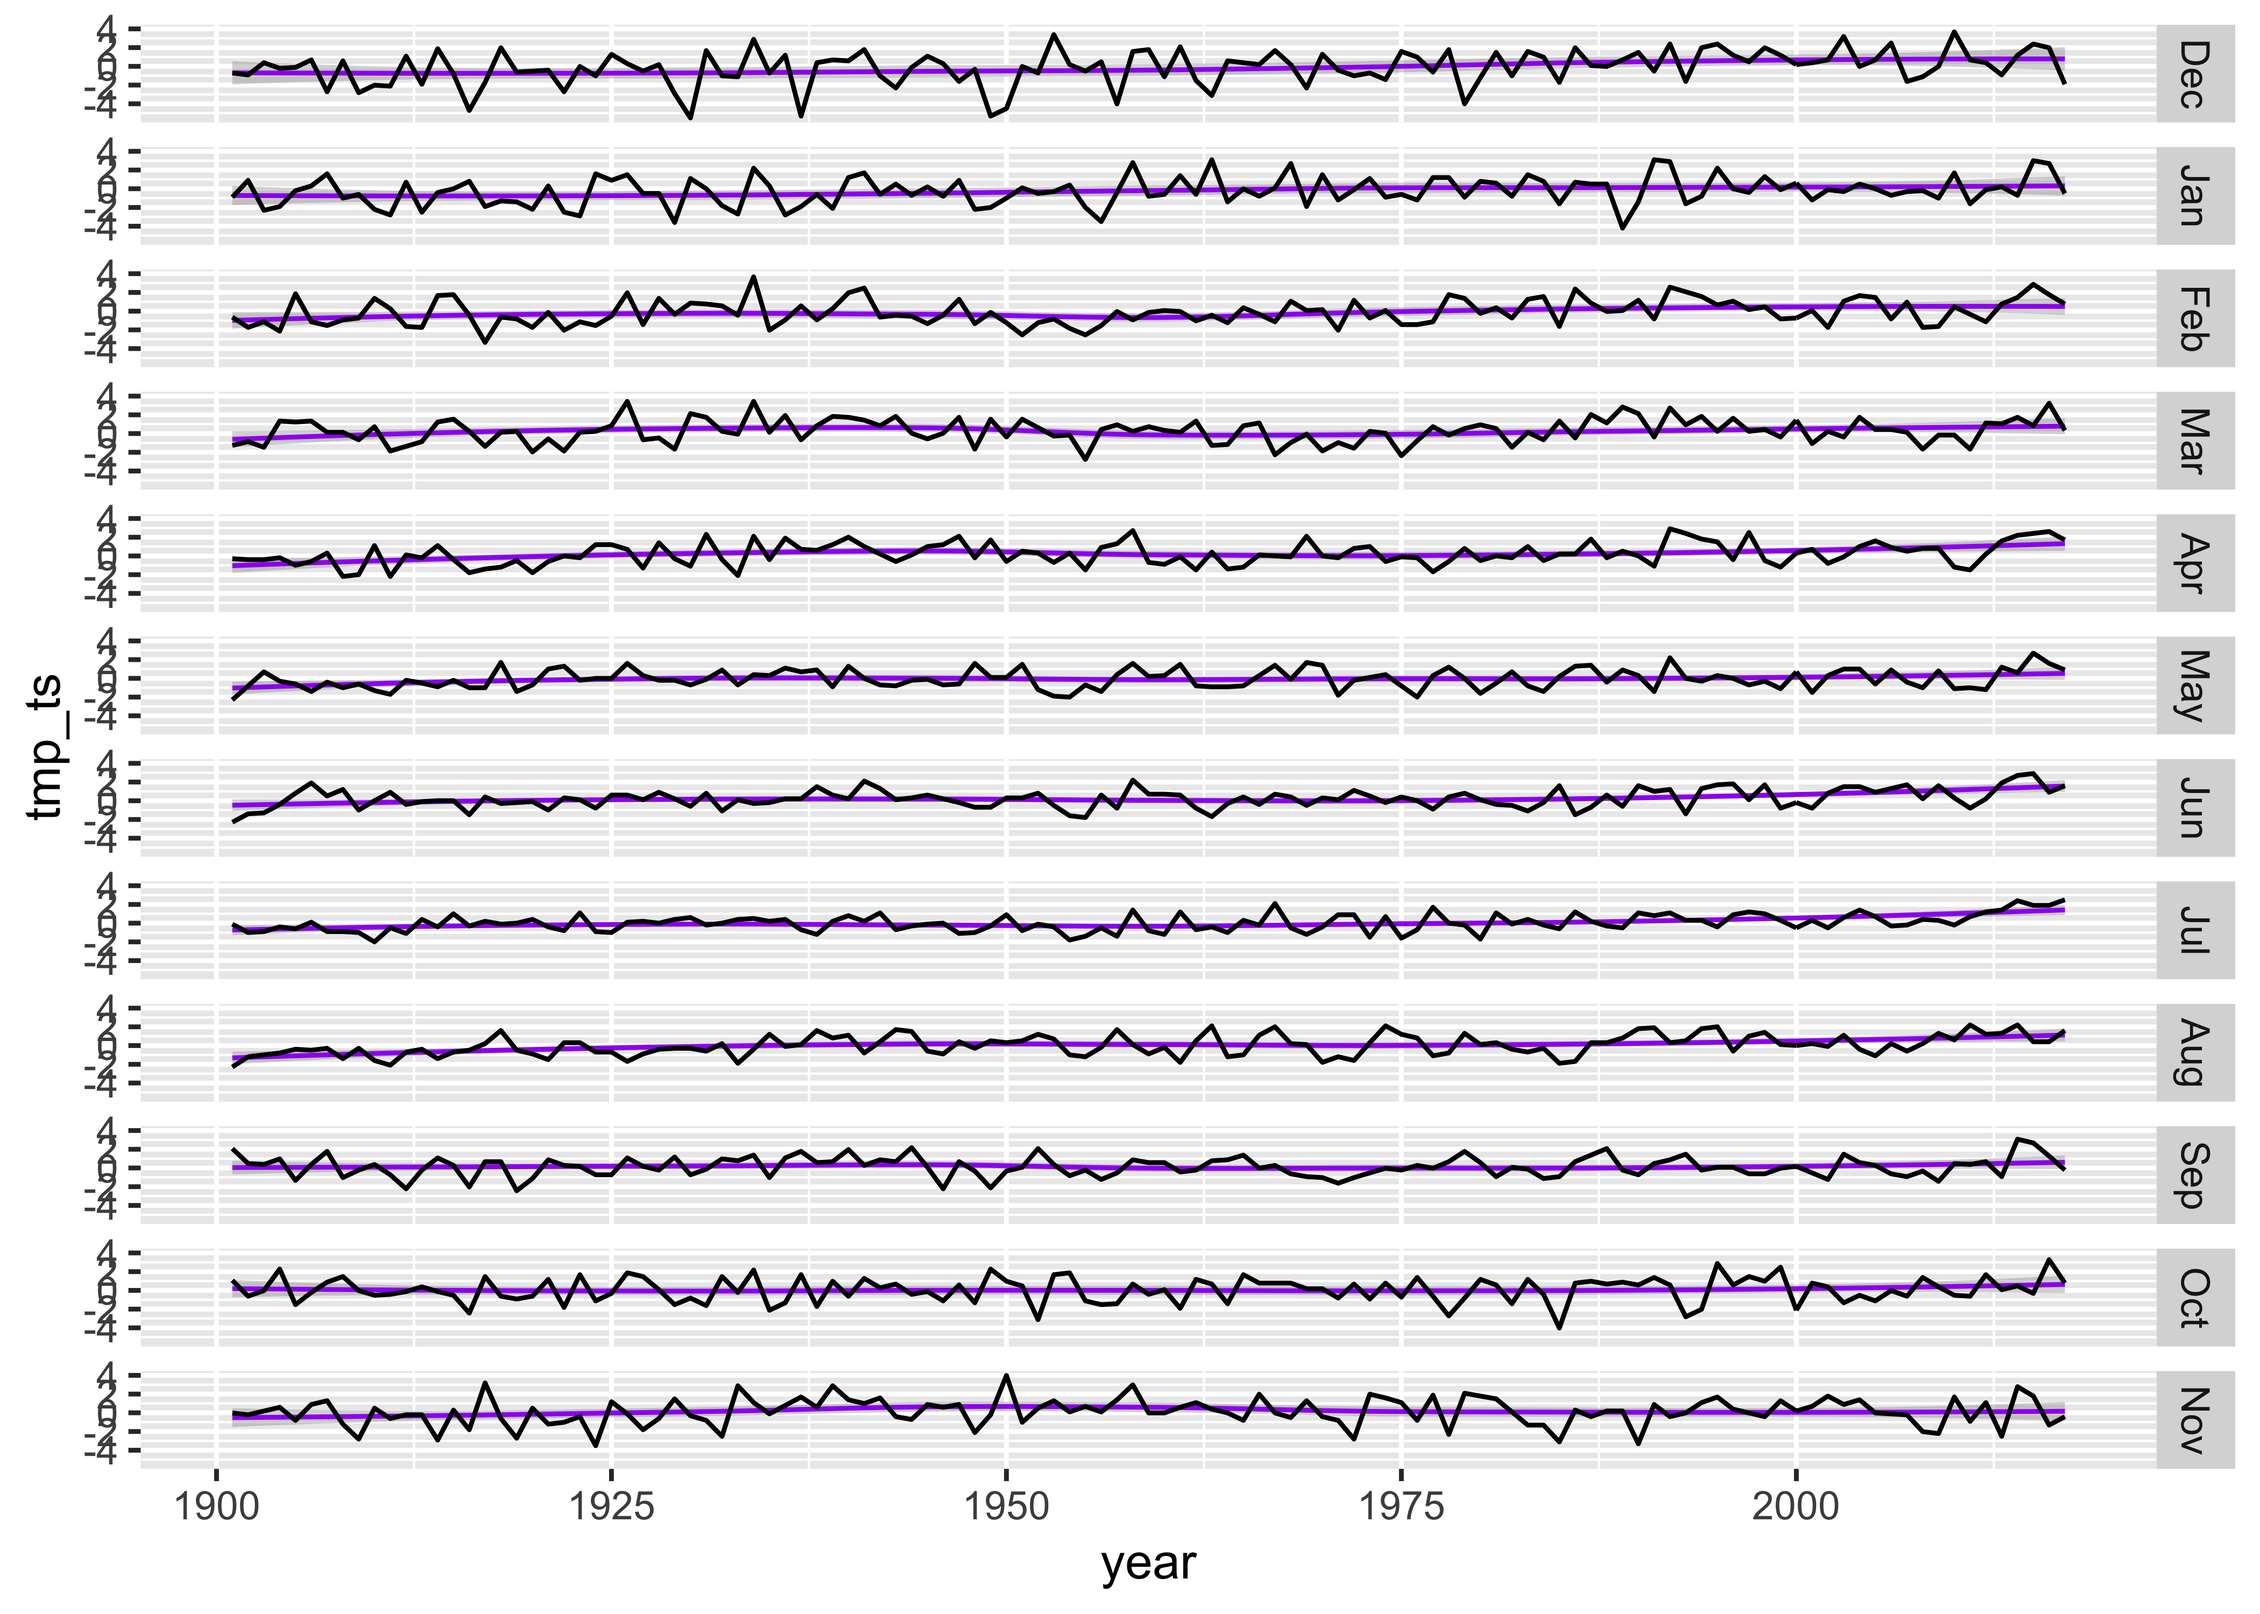
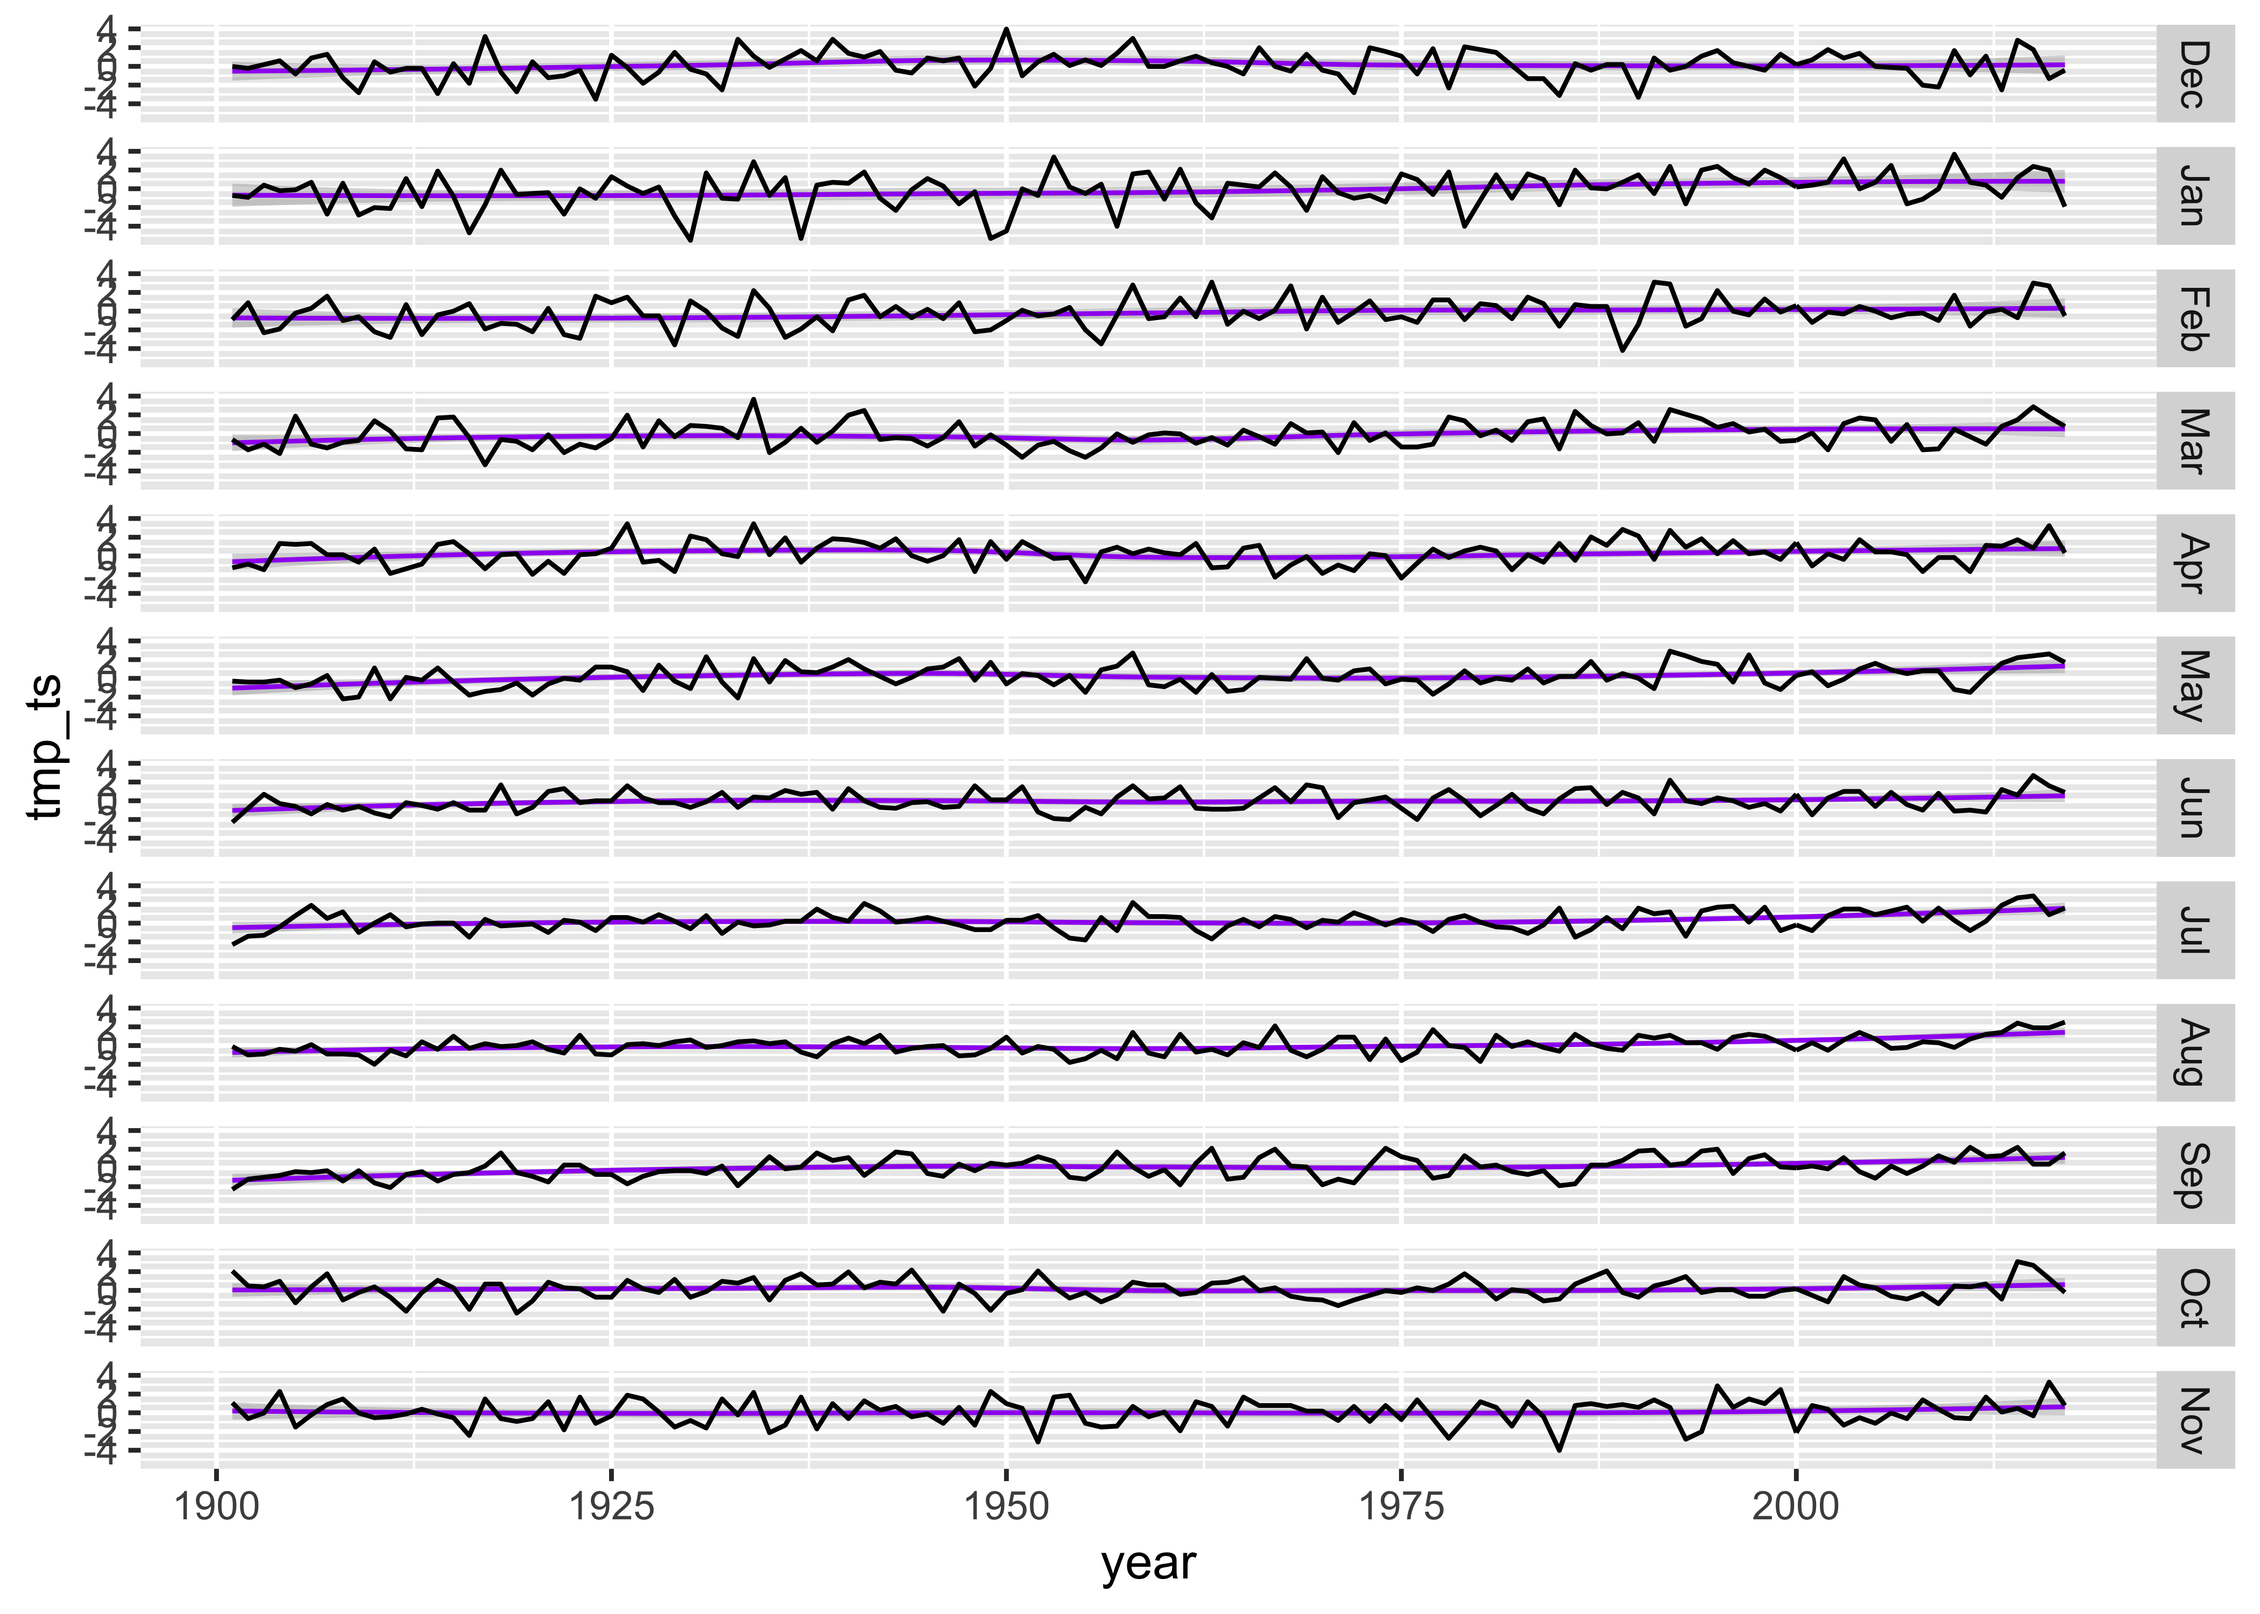
fixed rasterVis01.Rmd

diff --git a/docs/rasterVis01.html b/docs/rasterVis01.html
@@ -764,14 +764,14 @@ $(document).ready(function () {
 <pre><code>## [1] 2017 2017 2017 2017 2017 2017</code></pre>
 <div class="sourceCode" id="cb49"><pre class="sourceCode r"><code class="sourceCode r"><a class="sourceLine" id="cb49-1" title="1"><span class="co"># month</span></a>
 <a class="sourceLine" id="cb49-2" title="2"><span class="co"># month &lt;- rep(seq(1, 12, by=1), nyrs)</span></a>
-<a class="sourceLine" id="cb49-3" title="3">month_names &lt;-<span class="st"> </span><span class="kw">c</span>(<span class="st">&quot;Dec&quot;</span>,<span class="st">&quot;Jan&quot;</span>,<span class="st">&quot;Feb&quot;</span>,<span class="st">&quot;Mar&quot;</span>,<span class="st">&quot;Apr&quot;</span>,<span class="st">&quot;May&quot;</span>,<span class="st">&quot;Jun&quot;</span>,<span class="st">&quot;Jul&quot;</span>,<span class="st">&quot;Aug&quot;</span>,<span class="st">&quot;Sep&quot;</span>,<span class="st">&quot;Oct&quot;</span>,<span class="st">&quot;Nov&quot;</span>)</a>
+<a class="sourceLine" id="cb49-3" title="3">month_names &lt;-<span class="st"> </span><span class="kw">c</span>(<span class="st">&quot;Jan&quot;</span>,<span class="st">&quot;Feb&quot;</span>,<span class="st">&quot;Mar&quot;</span>,<span class="st">&quot;Apr&quot;</span>,<span class="st">&quot;May&quot;</span>,<span class="st">&quot;Jun&quot;</span>,<span class="st">&quot;Jul&quot;</span>,<span class="st">&quot;Aug&quot;</span>,<span class="st">&quot;Sep&quot;</span>,<span class="st">&quot;Oct&quot;</span>,<span class="st">&quot;Nov&quot;</span>, <span class="st">&quot;Dec&quot;</span>)</a>
 <a class="sourceLine" id="cb49-4" title="4">month &lt;-<span class="st"> </span><span class="kw">rep</span>(month_names, nyrs)</a>
 <a class="sourceLine" id="cb49-5" title="5"><span class="kw">head</span>(month); <span class="kw">tail</span>(month)</a></code></pre></div>
-<pre><code>## [1] &quot;Dec&quot; &quot;Jan&quot; &quot;Feb&quot; &quot;Mar&quot; &quot;Apr&quot; &quot;May&quot;</code></pre>
-<pre><code>## [1] &quot;Jun&quot; &quot;Jul&quot; &quot;Aug&quot; &quot;Sep&quot; &quot;Oct&quot; &quot;Nov&quot;</code></pre>
-<div class="sourceCode" id="cb52"><pre class="sourceCode r"><code class="sourceCode r"><a class="sourceLine" id="cb52-1" title="1">month &lt;-<span class="st"> </span><span class="kw">factor</span>(month, <span class="dt">levels=</span>month_names)</a>
-<a class="sourceLine" id="cb52-2" title="2"><span class="kw">class</span>(month)</a></code></pre></div>
-<pre><code>## [1] &quot;factor&quot;</code></pre>
+<pre><code>## [1] &quot;Jan&quot; &quot;Feb&quot; &quot;Mar&quot; &quot;Apr&quot; &quot;May&quot; &quot;Jun&quot;</code></pre>
+<pre><code>## [1] &quot;Jul&quot; &quot;Aug&quot; &quot;Sep&quot; &quot;Oct&quot; &quot;Nov&quot; &quot;Dec&quot;</code></pre>
+<div class="sourceCode" id="cb52"><pre class="sourceCode r"><code class="sourceCode r"><a class="sourceLine" id="cb52-1" title="1">month &lt;-<span class="st"> </span><span class="kw">factor</span>(month, <span class="dt">levels=</span><span class="kw">c</span>( <span class="st">&quot;Dec&quot;</span>, <span class="st">&quot;Jan&quot;</span>,<span class="st">&quot;Feb&quot;</span>,<span class="st">&quot;Mar&quot;</span>,<span class="st">&quot;Apr&quot;</span>,<span class="st">&quot;May&quot;</span>,<span class="st">&quot;Jun&quot;</span>,<span class="st">&quot;Jul&quot;</span>,<span class="st">&quot;Aug&quot;</span>,<span class="st">&quot;Sep&quot;</span>,<span class="st">&quot;Oct&quot;</span>,<span class="st">&quot;Nov&quot;</span>))</a>
+<a class="sourceLine" id="cb52-2" title="2"><span class="kw">str</span>(month)</a></code></pre></div>
+<pre><code>##  Factor w/ 12 levels &quot;Dec&quot;,&quot;Jan&quot;,&quot;Feb&quot;,..: 2 3 4 5 6 7 8 9 10 11 ...</code></pre>
 <p>Note that <code>month</code> is a factor, and without intervention, the monthly panels will plot in the default order for a factor: alphabetical. This would be a little counterintuitive to interpret, but the factor order can be reset using the code fragment:<br />
 <code>month &lt;- factor(month, levels=month_names)</code>, as was done above.</p>
 <p>Now find the grid cell closest to Eugene (approximatly 123.1167 W and 44.08333 N). This is done by using the <code>which.min()</code> function:</p>
@@ -800,23 +800,23 @@ $(document).ready(function () {
 <pre><code>## &#39;data.frame&#39;:    1404 obs. of  4 variables:
 ##  $ YrMn  : num  1901 1901 1901 1901 1901 ...
 ##  $ year  : int  1901 1901 1901 1901 1901 1901 1901 1901 1901 1901 ...
-##  $ month : Factor w/ 12 levels &quot;Dec&quot;,&quot;Jan&quot;,&quot;Feb&quot;,..: 1 2 3 4 5 6 7 8 9 10 ...
+##  $ month : Factor w/ 12 levels &quot;Dec&quot;,&quot;Jan&quot;,&quot;Feb&quot;,..: 2 3 4 5 6 7 8 9 10 11 ...
 ##  $ tmp_ts: num  -0.713 -0.903 -0.637 -1.267 -0.293 ...</code></pre>
 <div class="sourceCode" id="cb59"><pre class="sourceCode r"><code class="sourceCode r"><a class="sourceLine" id="cb59-1" title="1"><span class="kw">head</span>(tmp_df); <span class="kw">tail</span>(tmp_df)</a></code></pre></div>
 <pre><code>##       YrMn year month     tmp_ts
-## 1 1901.000 1901   Dec -0.7133333
-## 2 1901.083 1901   Jan -0.9033332
-## 3 1901.167 1901   Feb -0.6366666
-## 4 1901.250 1901   Mar -1.2666662
-## 5 1901.333 1901   Apr -0.2933328
-## 6 1901.417 1901   May -2.3033333</code></pre>
+## 1 1901.000 1901   Jan -0.7133333
+## 2 1901.083 1901   Feb -0.9033332
+## 3 1901.167 1901   Mar -0.6366666
+## 4 1901.250 1901   Apr -1.2666662
+## 5 1901.333 1901   May -0.2933328
+## 6 1901.417 1901   Jun -2.3033333</code></pre>
 <pre><code>##          YrMn year month     tmp_ts
-## 1399 2017.500 2017   Jun  1.6066670
-## 1400 2017.583 2017   Jul  2.5000007
-## 1401 2017.667 2017   Aug  1.6066672
-## 1402 2017.750 2017   Sep -0.2266665
-## 1403 2017.833 2017   Oct  0.7766663
-## 1404 2017.917 2017   Nov -0.4133331</code></pre>
+## 1399 2017.500 2017   Jul  1.6066670
+## 1400 2017.583 2017   Aug  2.5000007
+## 1401 2017.667 2017   Sep  1.6066672
+## 1402 2017.750 2017   Oct -0.2266665
+## 1403 2017.833 2017   Nov  0.7766663
+## 1404 2017.917 2017   Dec -0.4133331</code></pre>
 <p>Now, construct a <code>ggplot2</code> multi-panel (e.g. “faceted”) plot. The plot will be constructed with a lowess-smoother line in the background, overplotted by the annual values of each month in a separate panel.</p>
 <div class="sourceCode" id="cb62"><pre class="sourceCode r"><code class="sourceCode r"><a class="sourceLine" id="cb62-1" title="1"><span class="kw">ggplot</span>(<span class="dt">data =</span> tmp_df, <span class="kw">aes</span>(<span class="dt">x=</span>year, <span class="dt">y=</span>tmp_ts)) <span class="op">+</span></a>
 <a class="sourceLine" id="cb62-2" title="2"><span class="st">  </span><span class="co"># geom_smooth(method = &quot;lm&quot;, size=2, color=&quot;pink&quot;) +</span></a>
@@ -826,7 +826,7 @@ $(document).ready(function () {
 <p><img src="rasterVis01_files/figure-html/tsggplot1-1.png" width="75%" height="75%" /></p>
 <p>The plot seems quite wide relative to the vertical space occupied by each monthly time series, which makes it difficult to notice any trends in the daa. The aspect of the ratio can be adjusted, guided by the Bill Cleveland’s notion of “banking to 45 (degrees)”. The function <code>bank_slopes()</code> in the package <code>ggthemes</code> can find the aspect ratio that optimizes that notion for a single time series (here, the values for December):</p>
 <div class="sourceCode" id="cb63"><pre class="sourceCode r"><code class="sourceCode r"><a class="sourceLine" id="cb63-1" title="1"><span class="kw">bank_slopes</span>(tmp_df<span class="op">$</span>year[tmp_df<span class="op">$</span>month <span class="op">==</span><span class="st"> &quot;Dec&quot;</span>], tmp_df<span class="op">$</span>tmp_ts[tmp_df<span class="op">$</span>month <span class="op">==</span><span class="st"> &quot;Dec&quot;</span>])</a></code></pre></div>
-<pre><code>## [1] 0.04174229</code></pre>
+<pre><code>## [1] 0.04973474</code></pre>
 <p>A good first-guess aspect ratio can then be found by multiplying this value by the number of panels. However, experience shows that multiplying by the half the number of panels provides a more pleasing result:</p>
 <div class="sourceCode" id="cb65"><pre class="sourceCode r"><code class="sourceCode r"><a class="sourceLine" id="cb65-1" title="1"><span class="kw">ggplot</span>(<span class="dt">data =</span> tmp_df, <span class="kw">aes</span>(<span class="dt">x=</span>year, <span class="dt">y=</span>tmp_ts)) <span class="op">+</span></a>
 <a class="sourceLine" id="cb65-2" title="2"><span class="st">  </span><span class="co"># geom_smooth(method = &quot;lm&quot;, size=2, color=&quot;pink&quot;) +</span></a>
